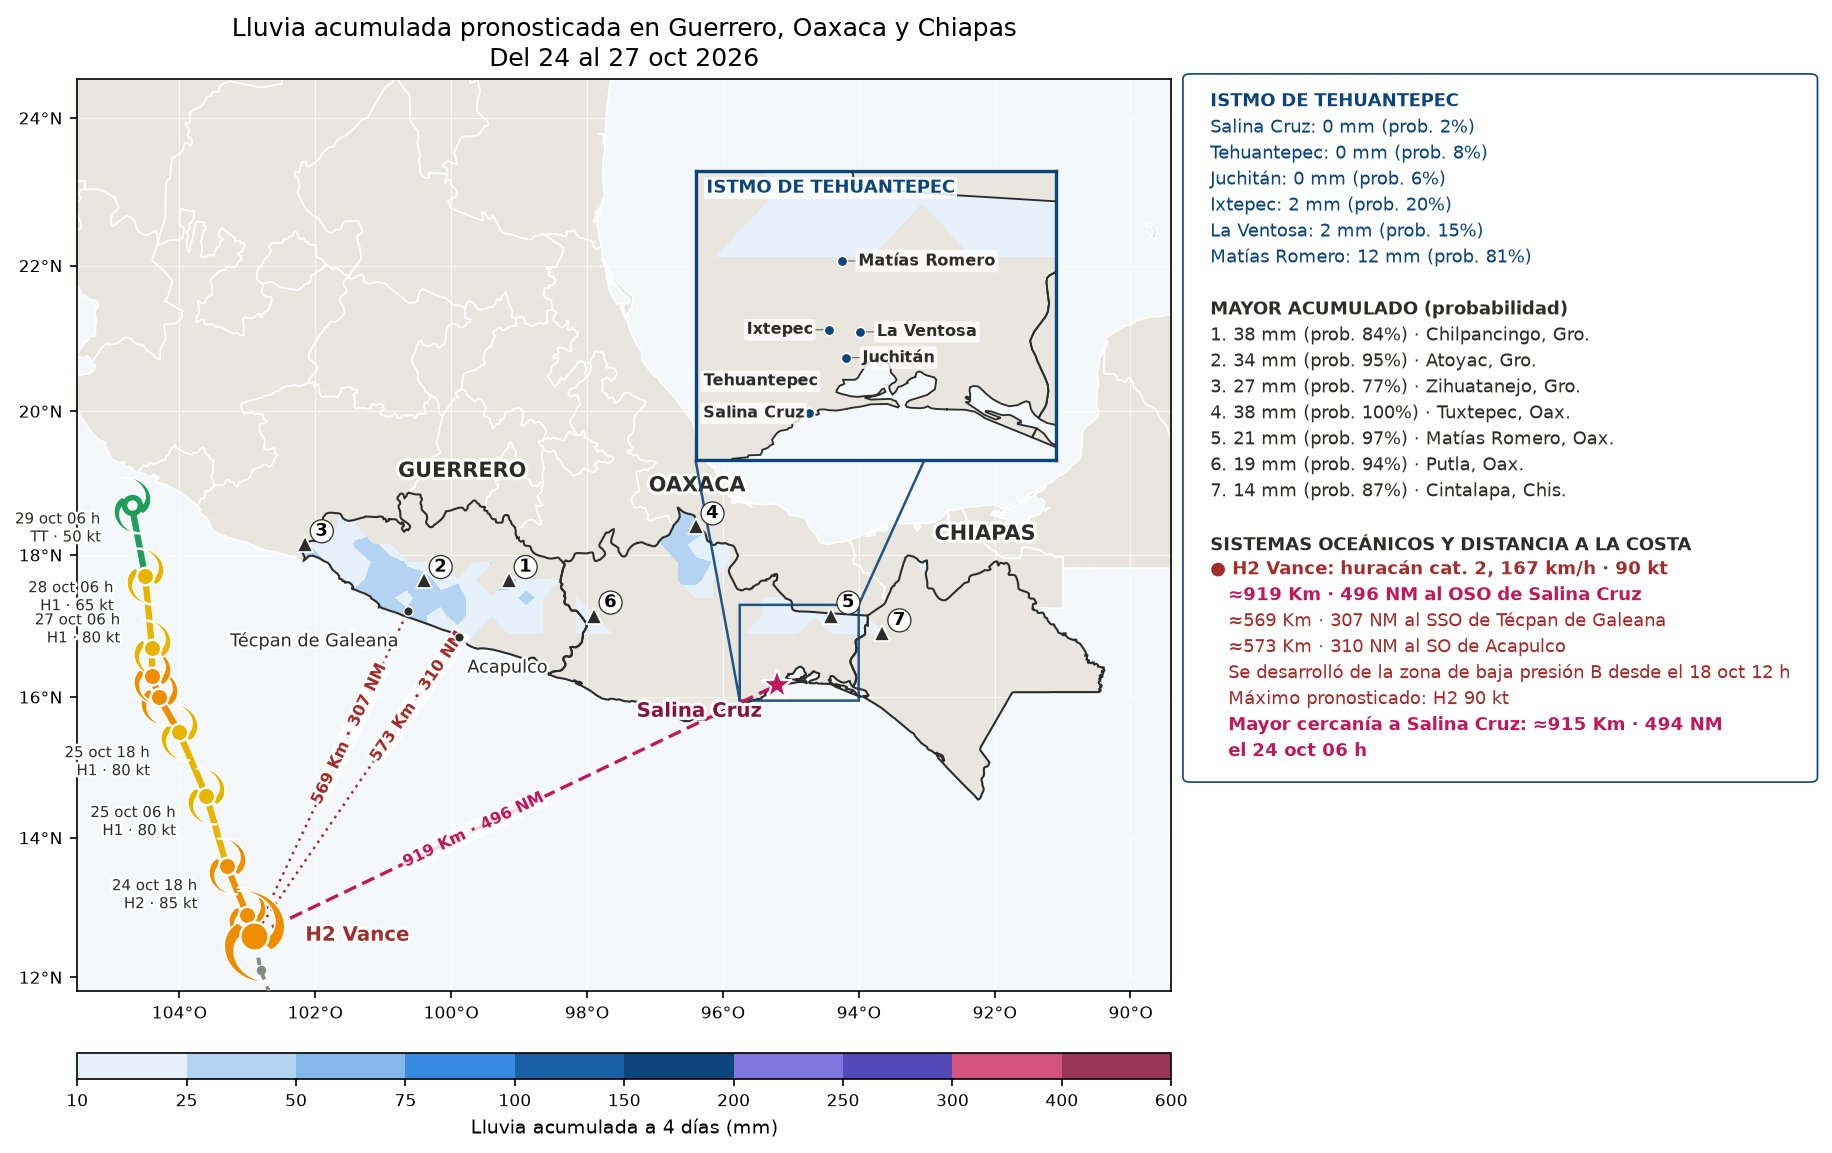
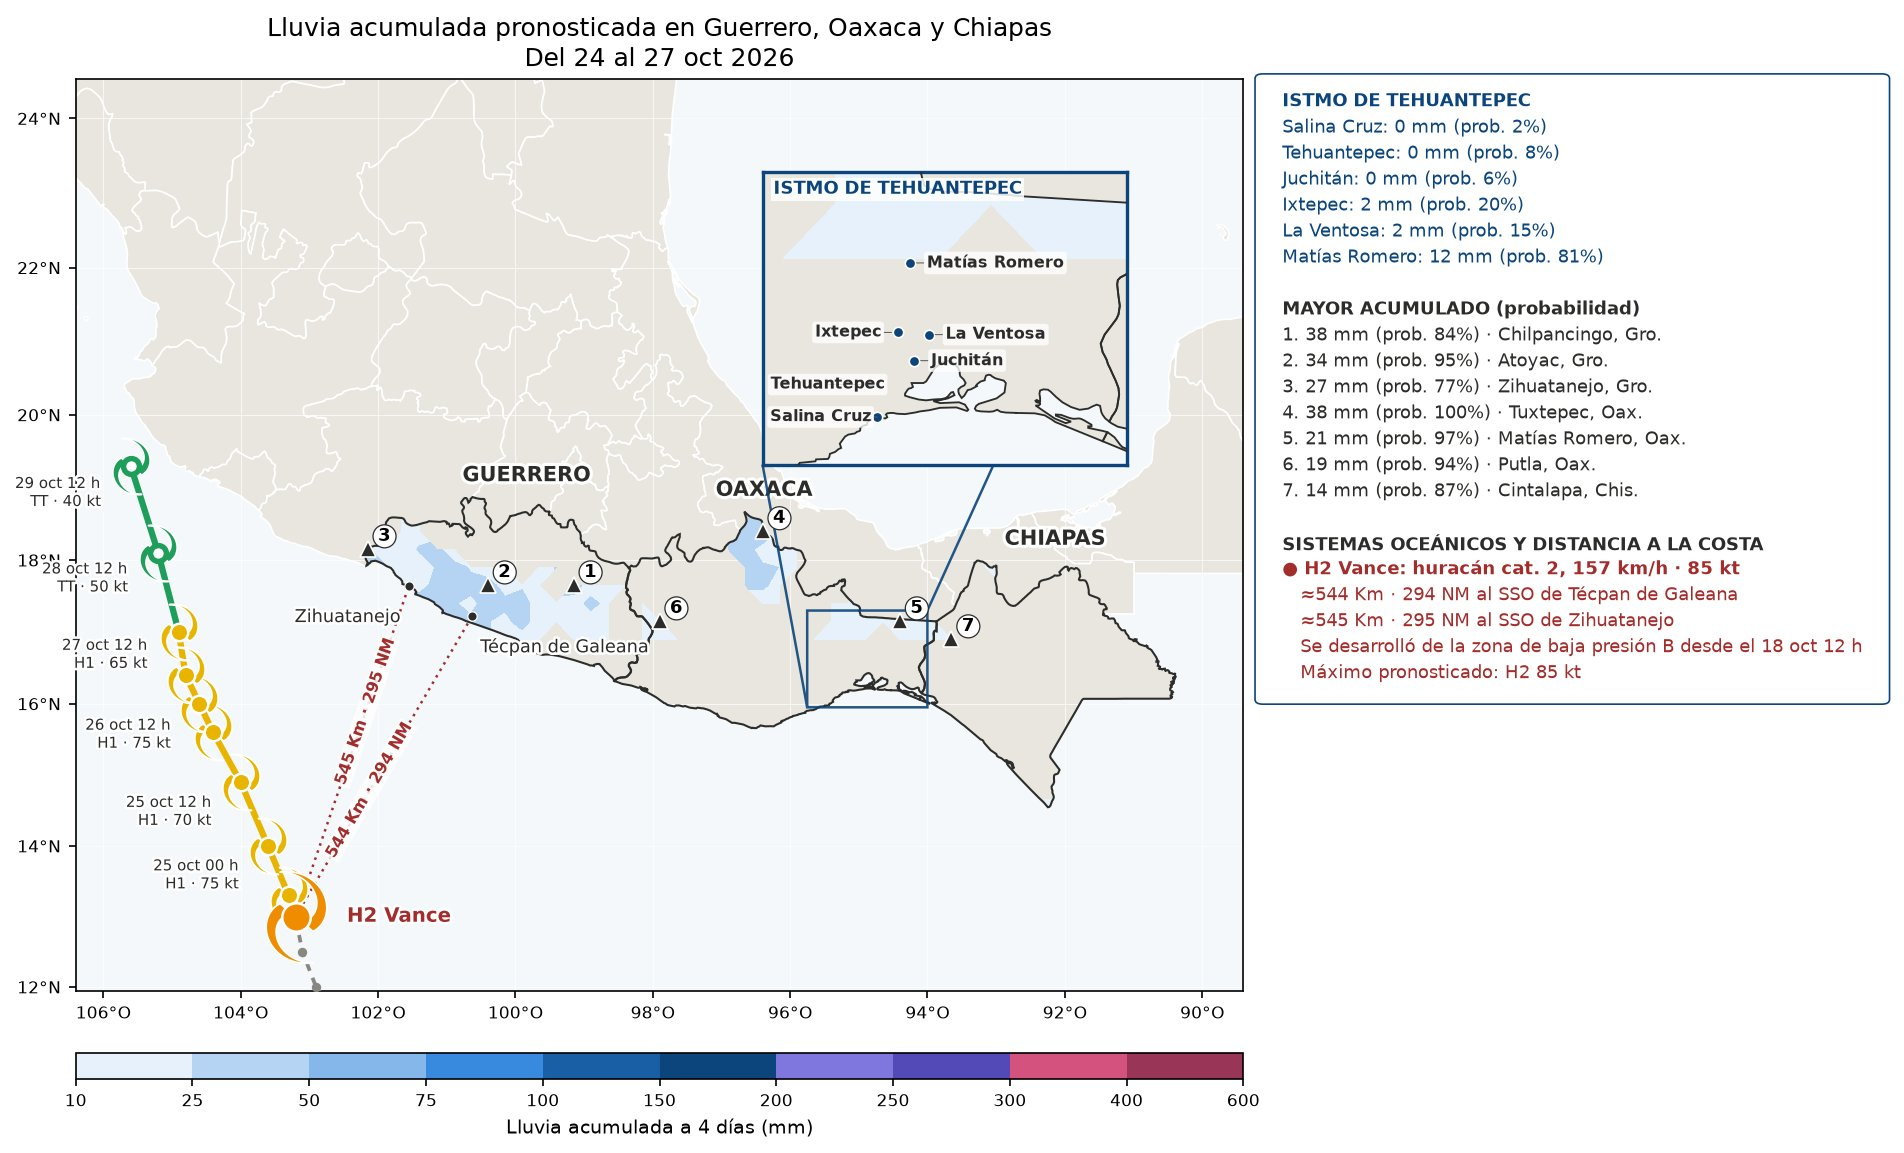
Monitor 24/10 14:47 (mapas nuevos)

diff --git a/index.html b/index.html
@@ -62,7 +62,7 @@ pre{overflow-x:auto;font-size:.75rem;background:var(--bg);padding:10px;border-ra
 <section class="t" id="sec_log"><details><summary>Registro (últimas líneas)</summary><pre id="log"></pre></details></section>
 </main>
 <div id="zoom"><img alt=""></div>
-<script id="datos" type="application/json">{"generado": "2026-10-24T14:27:04.017201", "ultima_revision": "2026-10-24T14:27:03.987890", "decision": "sin cambios", "ultima_imagen": "2026-10-24T09:10:07.143899", "motivo_imagen": "cambios acumulados en 3 h: nhc, modelo", "pendientes": [], "intervalo_h": 3, "resumen": {"ciclones": {"ep222026": {"nombre": "Vance", "kt": 90, "cat": "H2"}}, "zonas": []}, "historial": [{"fecha": "2026-10-22T06:30:19.909550", "motivo": "cambios acumulados en 3 h: modelo"}, {"fecha": "2026-10-22T09:40:18.265752", "motivo": "cambios acumulados en 3 h: nhc, modelo"}, {"fecha": "2026-10-22T13:37:25.982695", "motivo": "manual (--forzar)"}, {"fecha": "2026-10-22T16:50:12.796107", "motivo": "cambios acumulados en 3 h: nhc, modelo"}, {"fecha": "2026-10-22T20:00:33.390363", "motivo": "cambios acumulados en 3 h: modelo"}, {"fecha": "2026-10-22T23:07:14.363150", "motivo": "cambios acumulados en 3 h: nhc"}, {"fecha": "2026-10-23T03:07:13.407994", "motivo": "CAMBIO SIGNIFICATIVO: Vance cambió de categoría TT → H1"}, {"fecha": "2026-10-23T06:24:52.066568", "motivo": "cambios acumulados en 3 h: modelo"}, {"fecha": "2026-10-23T09:30:17.759506", "motivo": "cambios acumulados en 3 h: nhc, modelo"}, {"fecha": "2026-10-23T14:47:14.365047", "motivo": "CAMBIO SIGNIFICATIVO: Vance cambió de categoría H1 → H2"}, {"fecha": "2026-10-23T18:00:44.711869", "motivo": "cambios acumulados en 3 h: modelo"}, {"fecha": "2026-10-23T21:10:22.420281", "motivo": "cambios acumulados en 3 h: nhc, modelo"}, {"fecha": "2026-10-24T02:47:13.566844", "motivo": "cambios acumulados en 3 h: nhc"}, {"fecha": "2026-10-24T06:01:48.883304", "motivo": "cambios acumulados en 3 h: modelo"}, {"fecha": "2026-10-24T09:10:07.143899", "motivo": "cambios acumulados en 3 h: nhc, modelo"}], "imagenes": {"lluvia": {"src": "lluvia.jpg?v=202610240910", "fecha": "2026-10-24T09:10:00.371274"}, "viento": {"src": "viento.jpg?v=202610240910", "fecha": "2026-10-24T09:10:05.252014"}}, "log": [], "umbral_av": 50, "umbral_mal": 110}</script>
+<script id="datos" type="application/json">{"generado": "2026-10-24T14:47:15.436500", "ultima_revision": "2026-10-24T14:47:15.381799", "decision": "imágenes generadas", "ultima_imagen": "2026-10-24T14:47:15.381799", "motivo_imagen": "CAMBIO SIGNIFICATIVO: Vance cambió de categoría H2 → H1", "pendientes": [], "intervalo_h": 3, "resumen": {"ciclones": {"ep222026": {"nombre": "Vance", "kt": 80, "cat": "H1"}}, "zonas": []}, "historial": [{"fecha": "2026-10-22T09:40:18.265752", "motivo": "cambios acumulados en 3 h: nhc, modelo"}, {"fecha": "2026-10-22T13:37:25.982695", "motivo": "manual (--forzar)"}, {"fecha": "2026-10-22T16:50:12.796107", "motivo": "cambios acumulados en 3 h: nhc, modelo"}, {"fecha": "2026-10-22T20:00:33.390363", "motivo": "cambios acumulados en 3 h: modelo"}, {"fecha": "2026-10-22T23:07:14.363150", "motivo": "cambios acumulados en 3 h: nhc"}, {"fecha": "2026-10-23T03:07:13.407994", "motivo": "CAMBIO SIGNIFICATIVO: Vance cambió de categoría TT → H1"}, {"fecha": "2026-10-23T06:24:52.066568", "motivo": "cambios acumulados en 3 h: modelo"}, {"fecha": "2026-10-23T09:30:17.759506", "motivo": "cambios acumulados en 3 h: nhc, modelo"}, {"fecha": "2026-10-23T14:47:14.365047", "motivo": "CAMBIO SIGNIFICATIVO: Vance cambió de categoría H1 → H2"}, {"fecha": "2026-10-23T18:00:44.711869", "motivo": "cambios acumulados en 3 h: modelo"}, {"fecha": "2026-10-23T21:10:22.420281", "motivo": "cambios acumulados en 3 h: nhc, modelo"}, {"fecha": "2026-10-24T02:47:13.566844", "motivo": "cambios acumulados en 3 h: nhc"}, {"fecha": "2026-10-24T06:01:48.883304", "motivo": "cambios acumulados en 3 h: modelo"}, {"fecha": "2026-10-24T09:10:07.143899", "motivo": "cambios acumulados en 3 h: nhc, modelo"}, {"fecha": "2026-10-24T14:47:15.381799", "motivo": "CAMBIO SIGNIFICATIVO: Vance cambió de categoría H2 → H1"}], "imagenes": {"lluvia": {"src": "lluvia.jpg?v=202610241447", "fecha": "2026-10-24T14:47:09.414712"}, "viento": {"src": "viento.jpg?v=202610241447", "fecha": "2026-10-24T14:47:13.661934"}}, "log": [], "umbral_av": 50, "umbral_mal": 110}</script>
 <script>
 const D = JSON.parse(document.getElementById("datos").textContent);
 const $ = id => document.getElementById(id);
